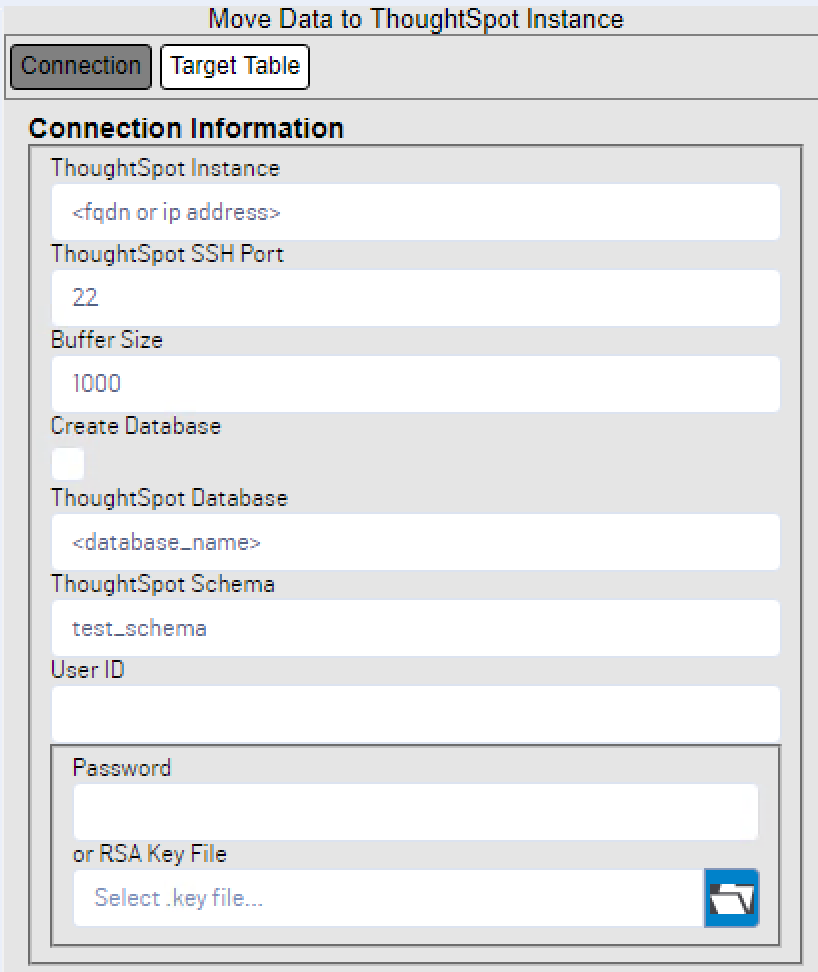
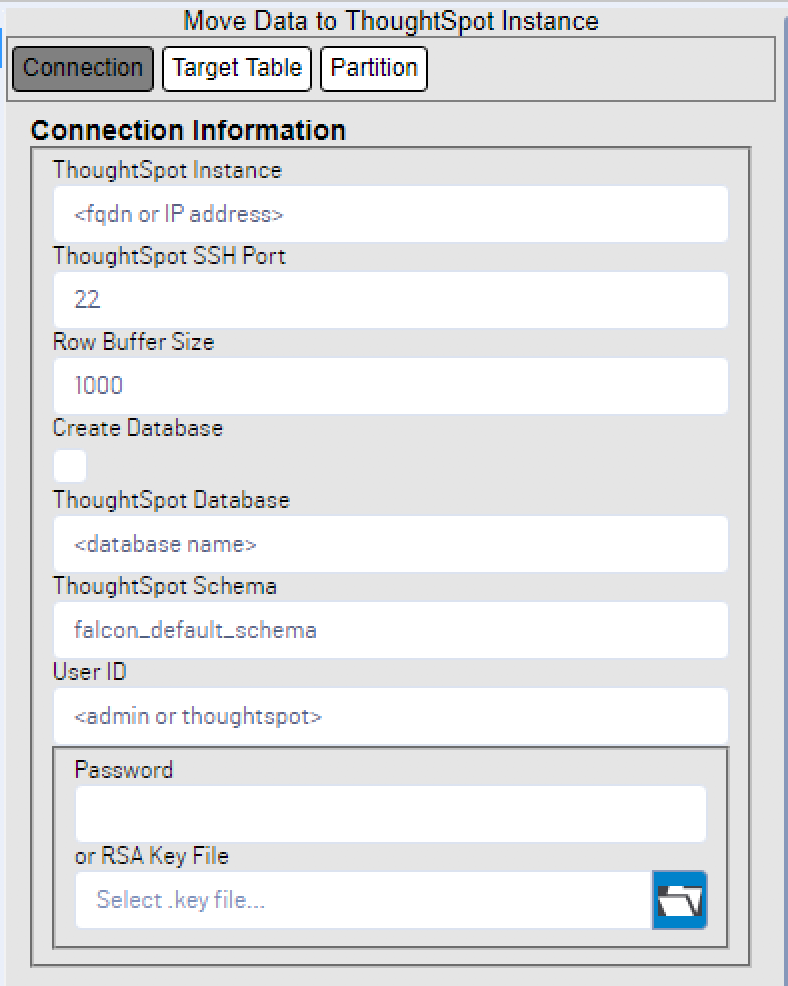
update readme

Changed region(s): [[0.0, 0.0, 1.0, 1.0]]

diff --git a/Alteryx_Bulk_Loader/readme.md b/Alteryx_Bulk_Loader/readme.md
@@ -50,23 +50,26 @@ This is an example of taking a pipe-delimeted csv file and creating both a datab
 
 The parameters for the ThoughtSpot bulk loader include the following:
 
-| ThoughtSpot Connection Parameters | Description                                                                                                                                                                                                                                                                                                                                                                                                                                                                            |
-| --------------------------------- | -------------------------------------------------------------------------------------------------------------------------------------------------------------------------------------------------------------------------------------------------------------------------------------------------------------------------------------------------------------------------------------------------------------------------------------------------------------------------------------- |
-| ThoughtSpot Instance              | IP address or FQDN of the primary node or cluster.                                                                                                                                                                                                                                                                                                                                                                                                                                     |
-| ThoughtSpot SSH Port              | The SSH port for the ThoughtSpot instance.  Default value: 22)                                                                                                                                                                                                                                                                                                                                                                                                                         |
-| Create Database                   | (Optional)  Set this flag to create a database within the ThoughtSpot Cluster.  If a Database is already present, the workflow will continue but you will see an error in the log that is returned.                                                                                                                                                                                                                                                                                    |
-| ThoughtSpot Database              | The ThoughtSpot database to create or use in the workflow.                                                                                                                                                                                                                                                                                                                                                                                                                             |
-| ThoughtSpot Schema                | The schema to be used to load data into the ThoughtSpot cluster.  Default value: falcon_default_schema                                                                                                                                                                                                                                                                                                                                                                                 |
-| User ID                           | The User ID that is used to access the command line via **SSH** to the ThoughtSpot cluster.                                                                                                                                                                                                                                                                                                                                                                                            |
-| Password                          | The password for the User ID to access the command line via **SSH** to the ThoughtSpot cluster.                                                                                                                                                                                                                                                                                                                                                                                        |
-| RSA Key File                      | (Optional)  Secret key file of the ThoughtSpot server.  You can use this in lieu of the password.  (Note:  This may be necessary if you are publishing to an internal gallery.)                                                                                                                                                                                                                                                                                                        |
-| **ThoughtSpot Table Parameters**  | **Description**                                                                                                                                                                                                                                                                                                                                                                                                                                                                        |
-| Table Name                        | The table name that will be created (See Create Table parameter below) or used and loaded with data.                                                                                                                                                                                                                                                                                                                                                                                   |
-| Boolean Representation            | If a column of type of Boolean is in the table, describe the format.  Default value: T_F (Note:  if multiple boolean columns exist in a table, they must all use the same Boolean Representation.)                                                                                                                                                                                                                                                                                     |
-| Maximum Ignored Rows              | Maximum number of rows to be ignored if load errors occur.                                                                                                                                                                                                                                                                                                                                                                                                                             |
-| Truncate Data                     | (Optional)  If selected, the data load will perform a full data refresh.                                                                                                                                                                                                                                                                                                                                                                                                               |
-| Create Table                      | (Optional)  If selected, the tool will try to drop the table in the Table Name parameter if it exists and (re)create the table based upon the supplied metadata in the workflow.  If the system cannot drop the table or if there is no table present, the workflow will not throw an error.  You may see an error if the column types from the workflow do not match the metadata that describes the table in ThoughtSpot.  All TQL statements are logged in the Browser Tool output. |
-| Optional Primary Key              | (Optional) If the Create Table flag is selected and a Primary Key is selected from the drop down list, the table generated will add a primary key(s) to the table.  If not selected, there will be no primary key added to the table.                                                                                                                                                                                                                                                  |
+| ThoughtSpot Connection Parameters    | Description                                                                                                                                                                                                                                                                                                                                                                                                                                                                            |
+| ------------------------------------ | -------------------------------------------------------------------------------------------------------------------------------------------------------------------------------------------------------------------------------------------------------------------------------------------------------------------------------------------------------------------------------------------------------------------------------------------------------------------------------------- |
+| ThoughtSpot Instance                 | IP address or FQDN of the primary node or cluster.                                                                                                                                                                                                                                                                                                                                                                                                                                     |
+| ThoughtSpot SSH Port                 | The SSH port for the ThoughtSpot instance.  Default value: 22)                                                                                                                                                                                                                                                                                                                                                                                                                         |
+| Create Database                      | (Optional)  Set this flag to create a database within the ThoughtSpot Cluster.  If a Database is already present, the workflow will continue but you will see an error in the log that is returned.                                                                                                                                                                                                                                                                                    |
+| ThoughtSpot Database                 | The ThoughtSpot database to create or use in the workflow.                                                                                                                                                                                                                                                                                                                                                                                                                             |
+| ThoughtSpot Schema                   | The schema to be used to load data into the ThoughtSpot cluster.  Default value: falcon_default_schema                                                                                                                                                                                                                                                                                                                                                                                 |
+| User ID                              | The User ID that is used to access the command line via **SSH** to the ThoughtSpot cluster.                                                                                                                                                                                                                                                                                                                                                                                            |
+| Password                             | The password for the User ID to access the command line via **SSH** to the ThoughtSpot cluster.                                                                                                                                                                                                                                                                                                                                                                                        |
+| RSA Key File                         | (Optional)  Secret key file of the ThoughtSpot server.  You can use this in lieu of the password.  (Note:  This may be necessary if you are publishing to an internal gallery.)                                                                                                                                                                                                                                                                                                        |
+| **ThoughtSpot Table Parameters**     | **Description**                                                                                                                                                                                                                                                                                                                                                                                                                                                                        |
+| Table Name                           | The table name that will be created (See Create Table parameter below) or used and loaded with data.                                                                                                                                                                                                                                                                                                                                                                                   |
+| Boolean Representation               | If a column of type of Boolean is in the table, describe the format.  Default value: T_F (Note:  if multiple boolean columns exist in a table, they must all use the same Boolean Representation.)                                                                                                                                                                                                                                                                                     |
+| Maximum Ignored Rows                 | Maximum number of rows to be ignored if load errors occur.                                                                                                                                                                                                                                                                                                                                                                                                                             |
+| Truncate Data                        | (Optional)  If selected, the data load will perform a full data refresh.                                                                                                                                                                                                                                                                                                                                                                                                               |
+| Create Table                         | (Optional)  If selected, the tool will try to drop the table in the Table Name parameter if it exists and (re)create the table based upon the supplied metadata in the workflow.  If the system cannot drop the table or if there is no table present, the workflow will not throw an error.  You may see an error if the column types from the workflow do not match the metadata that describes the table in ThoughtSpot.  All TQL statements are logged in the Browser Tool output. |
+| Optional Primary Key(s)              | (Optional) If the Create Table flag is selected and a Primary Key is selected from the drop down list, the table generated will add a primary key(s) to the table.  If not selected, there will be no primary key added to the table.                                                                                                                                                                                                                                                  |
+| **ThoughtSpot Partition Paremeters** | **Description**                                                                                                                                                                                                                                                                                                                                                                                                                                                                        |
+| Optional Hash Value                  | (Optional) The hash key used in the partition statement for the create table statement.  Please refer to the [documentation](https://docs.thoughtspot.com/6.0/admin/loading/sharding.html) for guidance on values.                                                                                                                                                                                                                                                                     |
+| Optional Partition Key(s)            | (Optional) The columns used in the partition statement for the create table statement.  Please refer to the  [documentation](https://docs.thoughtspot.com/6.0/admin/loading/sharding.html) for guidance.                                                                                                                                                                                                                                                                               |
 
 An example of ThoughtSpot Bulk Loader parameters that creates a database using the default schema in a ThoughtSpot cluster, creates a table with a primary key and then loads the data.
 
@@ -74,7 +77,7 @@ An example of ThoughtSpot Bulk Loader parameters that creates a database using t
 
 ![tsLoadParameters](Screenshots/tsLoadParametersII.png)
 
-
+![tsLoadParametersIII](Screenshots/tsLoadParametersIII.png)
 
 When creating a table, ThoughtSpot will convert the Alteryx data types using the following logic:
 
@@ -109,6 +112,12 @@ Please read [Contributing.md](Contributing.md) for details on our code of conduc
 
 # Versioning
 
+Version 2.5 -
+
+- Fixed bug related to primary keys not being populated
+
+- Added support for sharding/ partitioning tables
+
 Version 2.0 -
 
 - Split the connection and table properties into two tabs
@@ -136,6 +145,7 @@ Version 1.0.0 - Initial Public Version
 
 - Leverage ThoughtSpot Security model to login to the bulk loader
 - Assign edit priviliges to creator and not super admin user
+- Add ability to recongnize/assign foreign keys in a table
 
 # Authors
 
